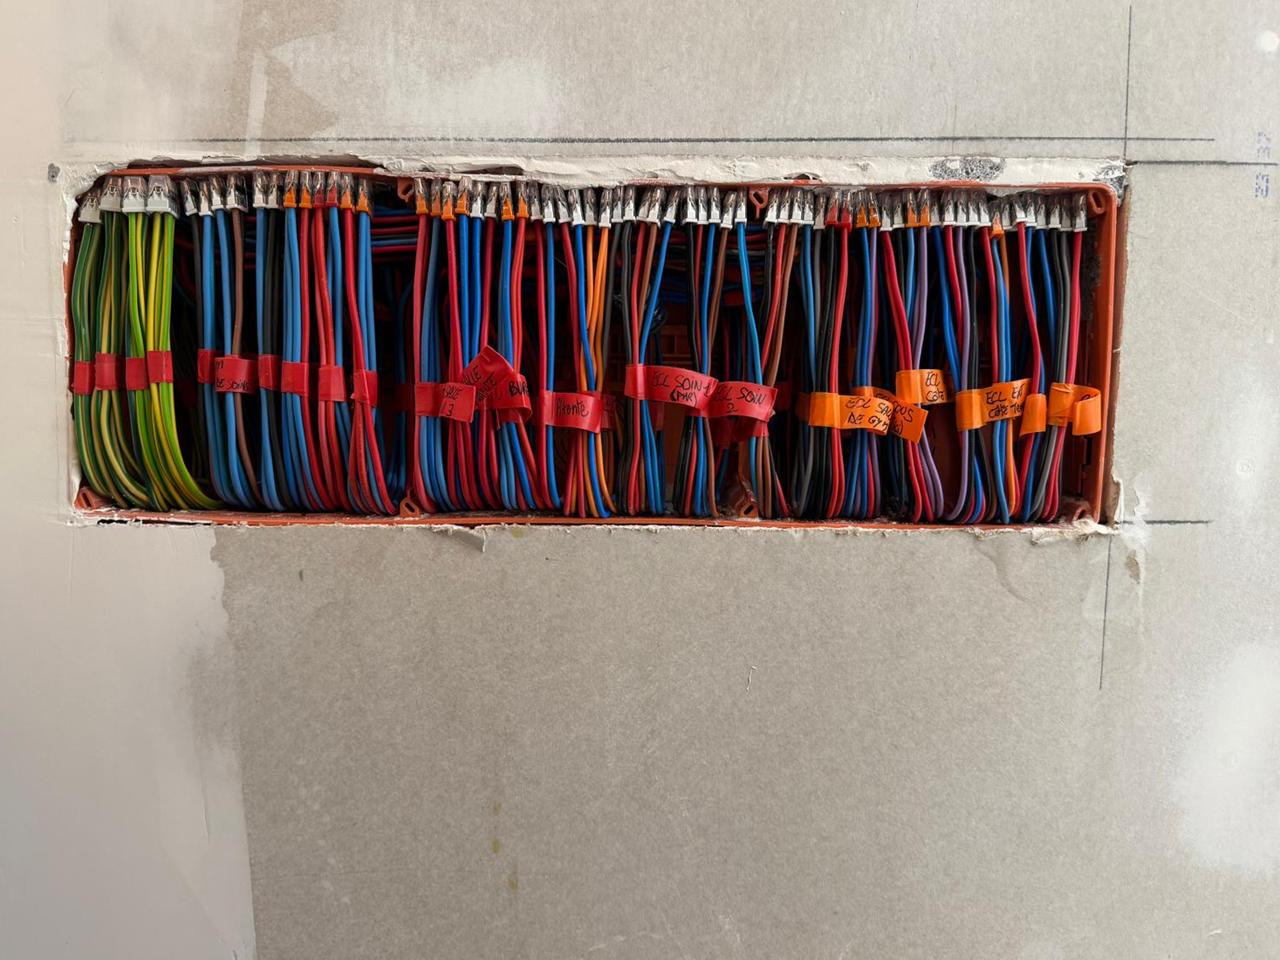
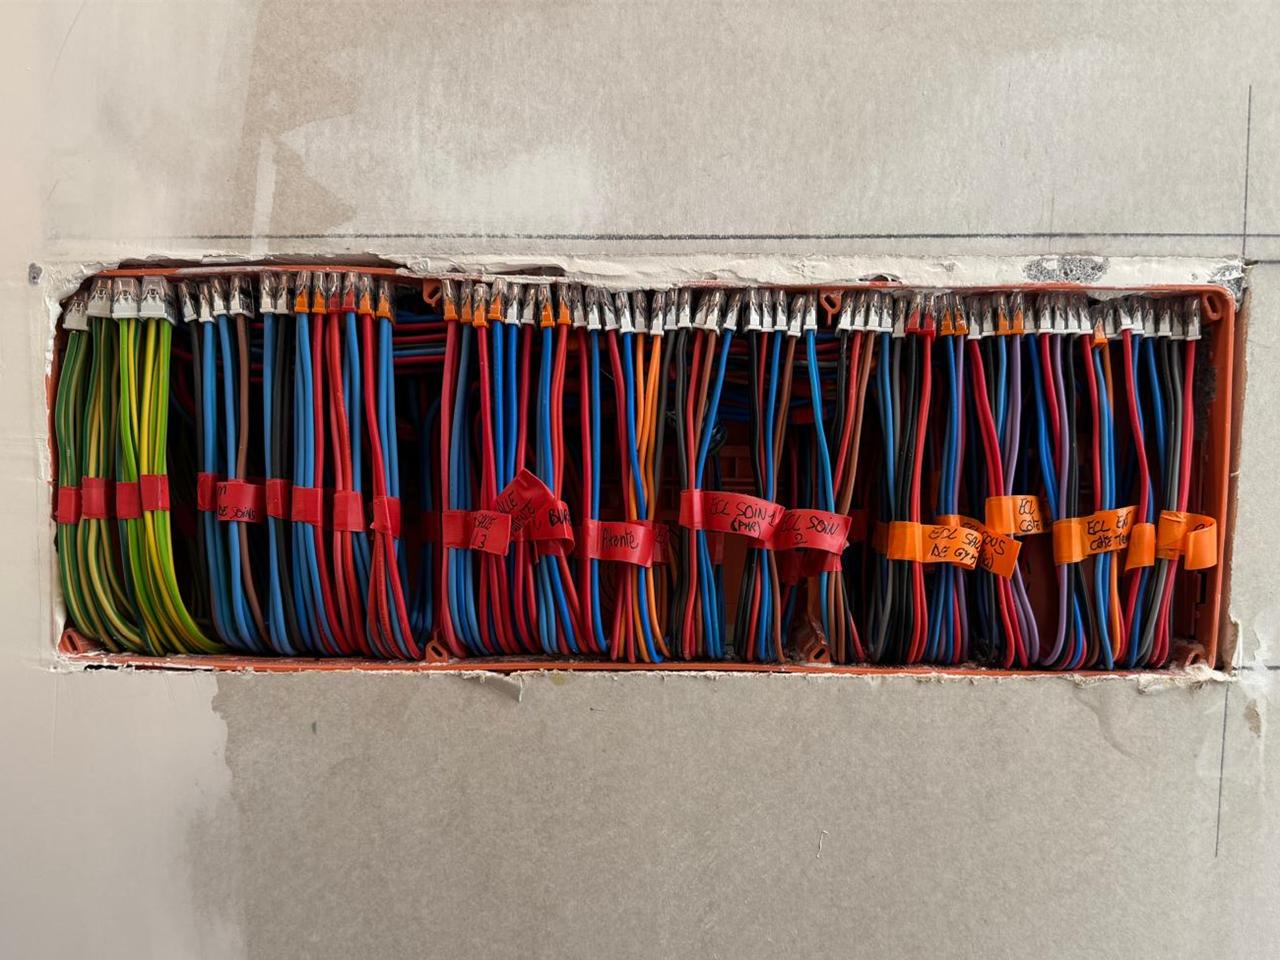
Réalisations : baie de bureau et boîte de dérivation recentrées

diff --git a/index.html b/index.html
@@ -332,7 +332,7 @@
           </li>
           <li class="gallery-item" data-cat="reseau">
             <button type="button" class="gallery-btn" data-full="assets/img/baie-reseau-bureau-1280.jpg">
-              <img src="assets/img/baie-reseau-bureau-640.jpg" width="640" height="620" loading="lazy" decoding="async"
+              <img src="assets/img/baie-reseau-bureau-640.jpg" width="640" height="480" loading="lazy" decoding="async"
                    alt="Petite baie réseau avec switch PoE, box internet, NAS et onduleur">
               <span class="gallery-cap"><strong>Baie de bureau</strong><span>Switch PoE, NAS, onduleur</span></span>
             </button>
